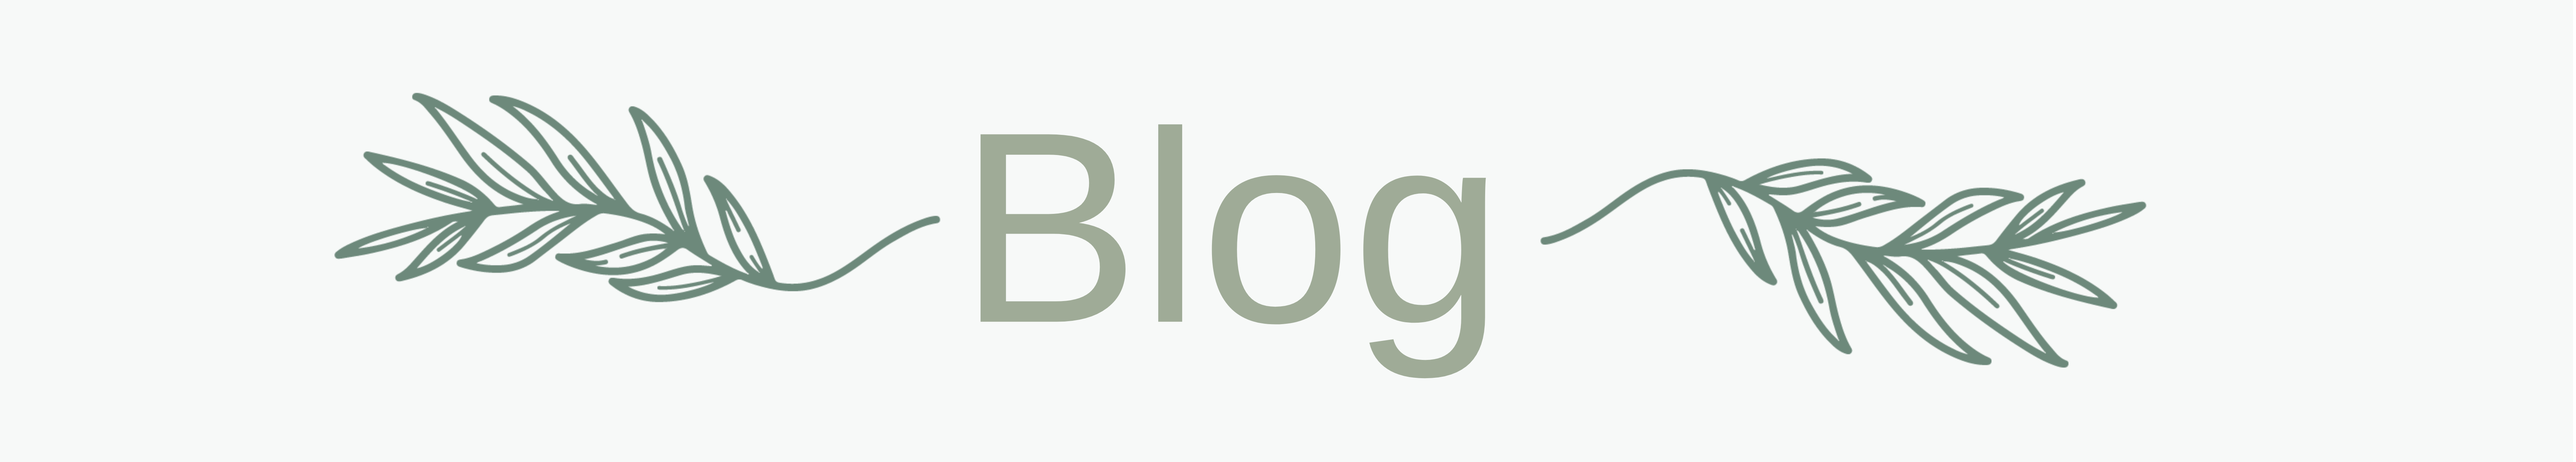
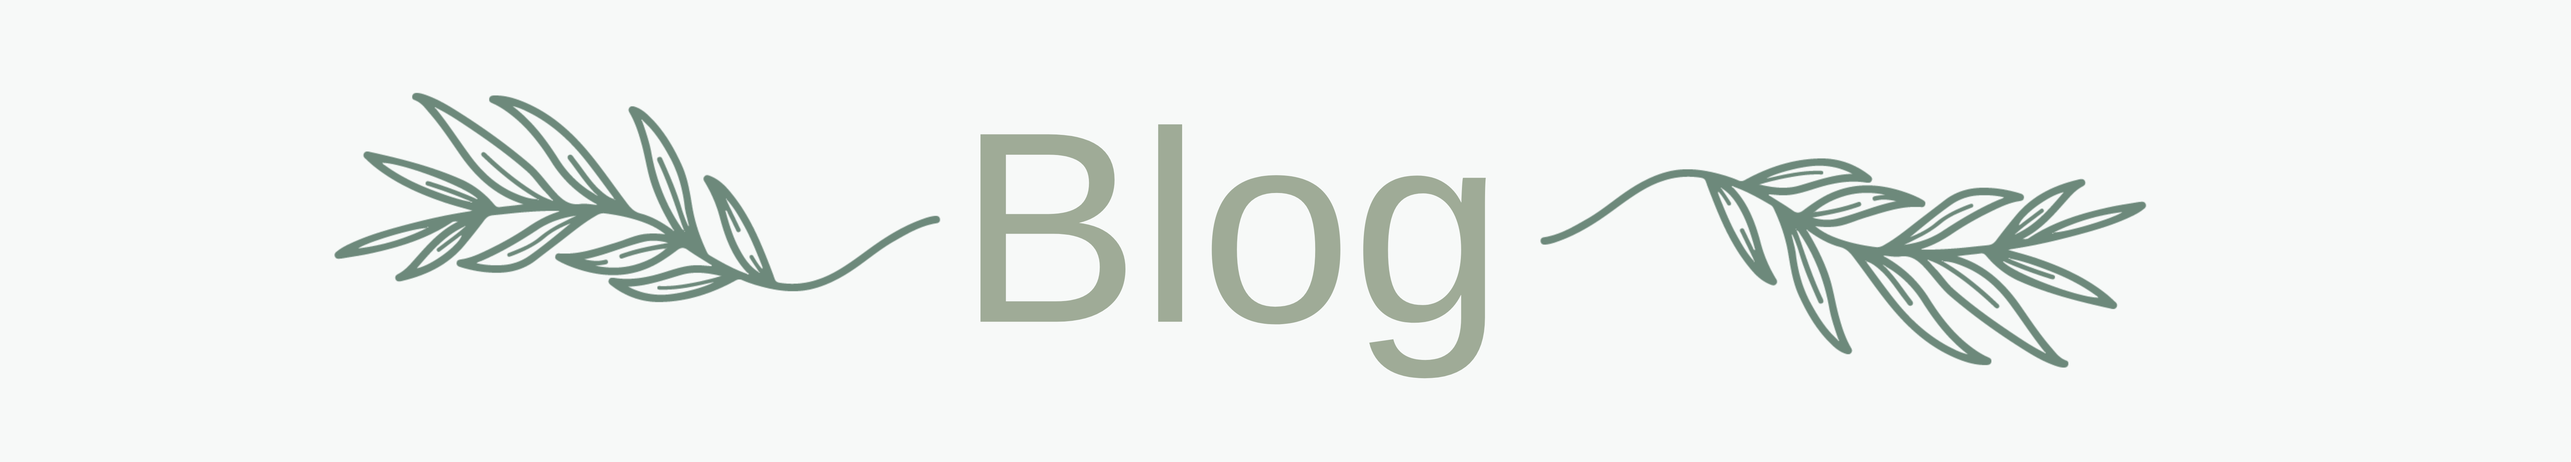
Final iphone

diff --git a/pages/blog.html b/pages/blog.html
@@ -21,7 +21,7 @@
         <!-- barra de navegacion -->
         <header id="anclaNavBar"></header>
  <!--Inician cards del blog-->
- <div class="blog">
+ <div class="blog text-center">
   <img src="../img/blog/Blog_.png" class="img-fluid">
 </div>
 <div class="containerBlog container">

diff --git a/css/blog.css b/css/blog.css
@@ -19,9 +19,10 @@ padding-top: 20%;
     margin-bottom: 5%;
     height: auto;
     max-height: 215px;
+    background-color: #F7F9F8;
 }
 .blog .img-fluid {
-    display: block;
     width: auto;
     max-height: 215px;
+    border-radius: 0;
 }
